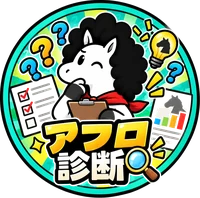
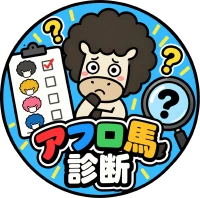
アイコンとタイトル画像を入れ、アフロワールドを1つのリストにした
・アフロ馬メーカーのアイコンとタイトル画像を追加
・今日のアフロとアフロ馬診断のアイコンを新しいものに差しかえ
  まわりの白を消して透過にし、200px（アイコン）/560px（タイトル）に統一

・アフロワールドの「毎日かわる／キャラクター／聴く」の3つに
  分かれていた区切りをやめて、1つのリストにまとめた。
  キャラクター紹介を一番上に。

・アフロホースラジオの設定から、テストモードを外した。
  やんちゃアフワは時間で自動に切りかわる。

diff --git a/world.html b/world.html
@@ -67,30 +67,8 @@
 <section>
   <div class="wrap">
     <div class="sec-head">
-      <h2 class="sec-ja">毎日かわる</h2>
-      <span class="sec-en">TODAY</span>
-    </div>
-    <div class="tools icons">
-      <a class="trow" href="kyou.html">
-        <span class="t-ico"><img src="images/tool_icon/kyou.webp" alt="" loading="lazy"></span>
-        <span class="t-body"><span class="t-name">今日のアフロ</span><span class="t-desc">きょうの担当と、ラッキー枠番・馬番</span></span>
-        <span class="t-arrow">&rsaquo;</span>
-      </a>
-      <a class="trow" href="maker.html">
-        <span class="t-ico">&#127912;</span>
-        <span class="t-body"><span class="t-name">アフロ馬メーカー</span><span class="t-desc">色も顔も選んで、自分だけの1頭をつくる</span></span>
-        <span class="t-arrow">&rsaquo;</span>
-      </a>
-    </div>
-  </div>
-</section>
-
-<section>
-  <div class="wrap">
-    <div class="sec-head">
-      <h2 class="sec-ja">キャラクター</h2>
-      <span class="sec-en">CHARACTERS</span>
-      <a class="sec-more" href="afrohorse_characters.html">もっと見る &rarr;</a>
+      <h2 class="sec-ja">アフロワールド</h2>
+      <span class="sec-en">ALL</span>
     </div>
     <div class="tools icons">
       <a class="trow" href="afrohorse_characters.html">
@@ -98,29 +76,27 @@
         <span class="t-body"><span class="t-name">キャラクター紹介</span><span class="t-desc">6頭のくわしいプロフィール</span></span>
         <span class="t-arrow">&rsaquo;</span>
       </a>
+      <a class="trow" href="maker.html">
+        <span class="t-ico"><img src="images/tool_icon/maker.webp" alt="" loading="lazy"></span>
+        <span class="t-body"><span class="t-name">アフロ馬メーカー</span><span class="t-desc">色も顔も選んで、自分だけの1頭をつくる</span></span>
+        <span class="t-arrow">&rsaquo;</span>
+      </a>
       <a class="trow" href="shindan.html">
         <span class="t-ico"><img src="images/tool_icon/shindan.webp" alt="" loading="lazy"></span>
         <span class="t-body"><span class="t-name">アフロ診断</span><span class="t-desc">12問でわかる、あなたのアフロ馬タイプ</span></span>
         <span class="t-arrow">&rsaquo;</span>
       </a>
-    </div>
-  </div>
-</section>
-
-<section>
-  <div class="wrap">
-    <div class="sec-head">
-      <h2 class="sec-ja">聴く</h2>
-      <span class="sec-en">RADIO</span>
-    </div>
-    <div class="tools icons">
+      <a class="trow" href="kyou.html">
+        <span class="t-ico"><img src="images/tool_icon/kyou.webp" alt="" loading="lazy"></span>
+        <span class="t-body"><span class="t-name">今日のアフロ</span><span class="t-desc">きょうの担当と、ラッキー枠番・馬番</span></span>
+        <span class="t-arrow">&rsaquo;</span>
+      </a>
       <a class="trow" href="radio.html">
         <span class="t-ico"><img src="images/tool_icon/radio.webp" alt="" loading="lazy"></span>
         <span class="t-body"><span class="t-name">アフロホースラジオ</span><span class="t-desc">DJアフワが24時間ノンストップ</span></span>
         <span class="t-arrow">&rsaquo;</span>
       </a>
     </div>
-    <a class="backlink" href="index.html">&larr; トップにもどる</a>
   </div>
 </section>
 

diff --git a/radio.html b/radio.html
@@ -236,15 +236,6 @@ footer {text-align:center;color:var(--mute);font-family:'DotGothic16',monospace;
         <input type="range" id="bgmVolume" min="0" max="100" value="15" style="width:100%;accent-color:var(--amber)">
         <p style="font-size:11px;color:var(--mute);text-align:right;margin-top:4px"><span id="bgmVolumeLabel">15</span>%</p>
       </div>
-      <div style="margin-top:16px;padding-top:12px;border-top:1px dashed #3a1515">
-        <h2 style="font-size:14px;margin-bottom:8px">🧪 テストモード</h2>
-        <p style="font-size:11px;color:var(--mute);margin-bottom:10px">やんちゃアフワを手動で切替できます</p>
-        <div style="display:flex;gap:6px">
-          <button class="yancha-toggle-btn" data-mode="auto" id="ymAuto">⏰ 自動</button>
-          <button class="yancha-toggle-btn" data-mode="off" id="ymOff">😊 通常</button>
-          <button class="yancha-toggle-btn" data-mode="on" id="ymOn">⚡ やんちゃ</button>
-        </div>
-      </div>
       <button class="modal-close" id="modalClose">閉じる</button>
     </div>
   </div>
@@ -3050,9 +3041,8 @@ function setYanchaMode(mode) {
     afuwaEl.style.backgroundImage = `url('${getCurrentIdleFrame()}')`;
   }
 }
-document.getElementById('ymAuto').addEventListener('click', () => setYanchaMode('auto'));
-document.getElementById('ymOff').addEventListener('click', () => setYanchaMode('off'));
-document.getElementById('ymOn').addEventListener('click', () => setYanchaMode('on'));
+/* テストモードのボタンは外した。やんちゃアフワは時間で自動に切りかわる。
+   setYanchaMode はほかからも呼ばれるので残してある */
 updateYanchaToggleUI();
 
 // =========================================

diff --git a/maker.html b/maker.html
@@ -202,10 +202,11 @@
   </div>
 </nav>
 
-<header class="phead" data-bg="MAKER">
+<header class="phead has-chara" data-bg="MAKER">
   <div class="phead-en">AFRO MAKER</div>
   <h1 class="phead-ja">アフロ馬メーカー</h1>
   <p class="phead-sub">自分だけのアフロ馬をつくる</p>
+  <img class="phead-chara" src="images/maker_hero.webp" alt="" aria-hidden="true">
 </header>
 
 <section>
